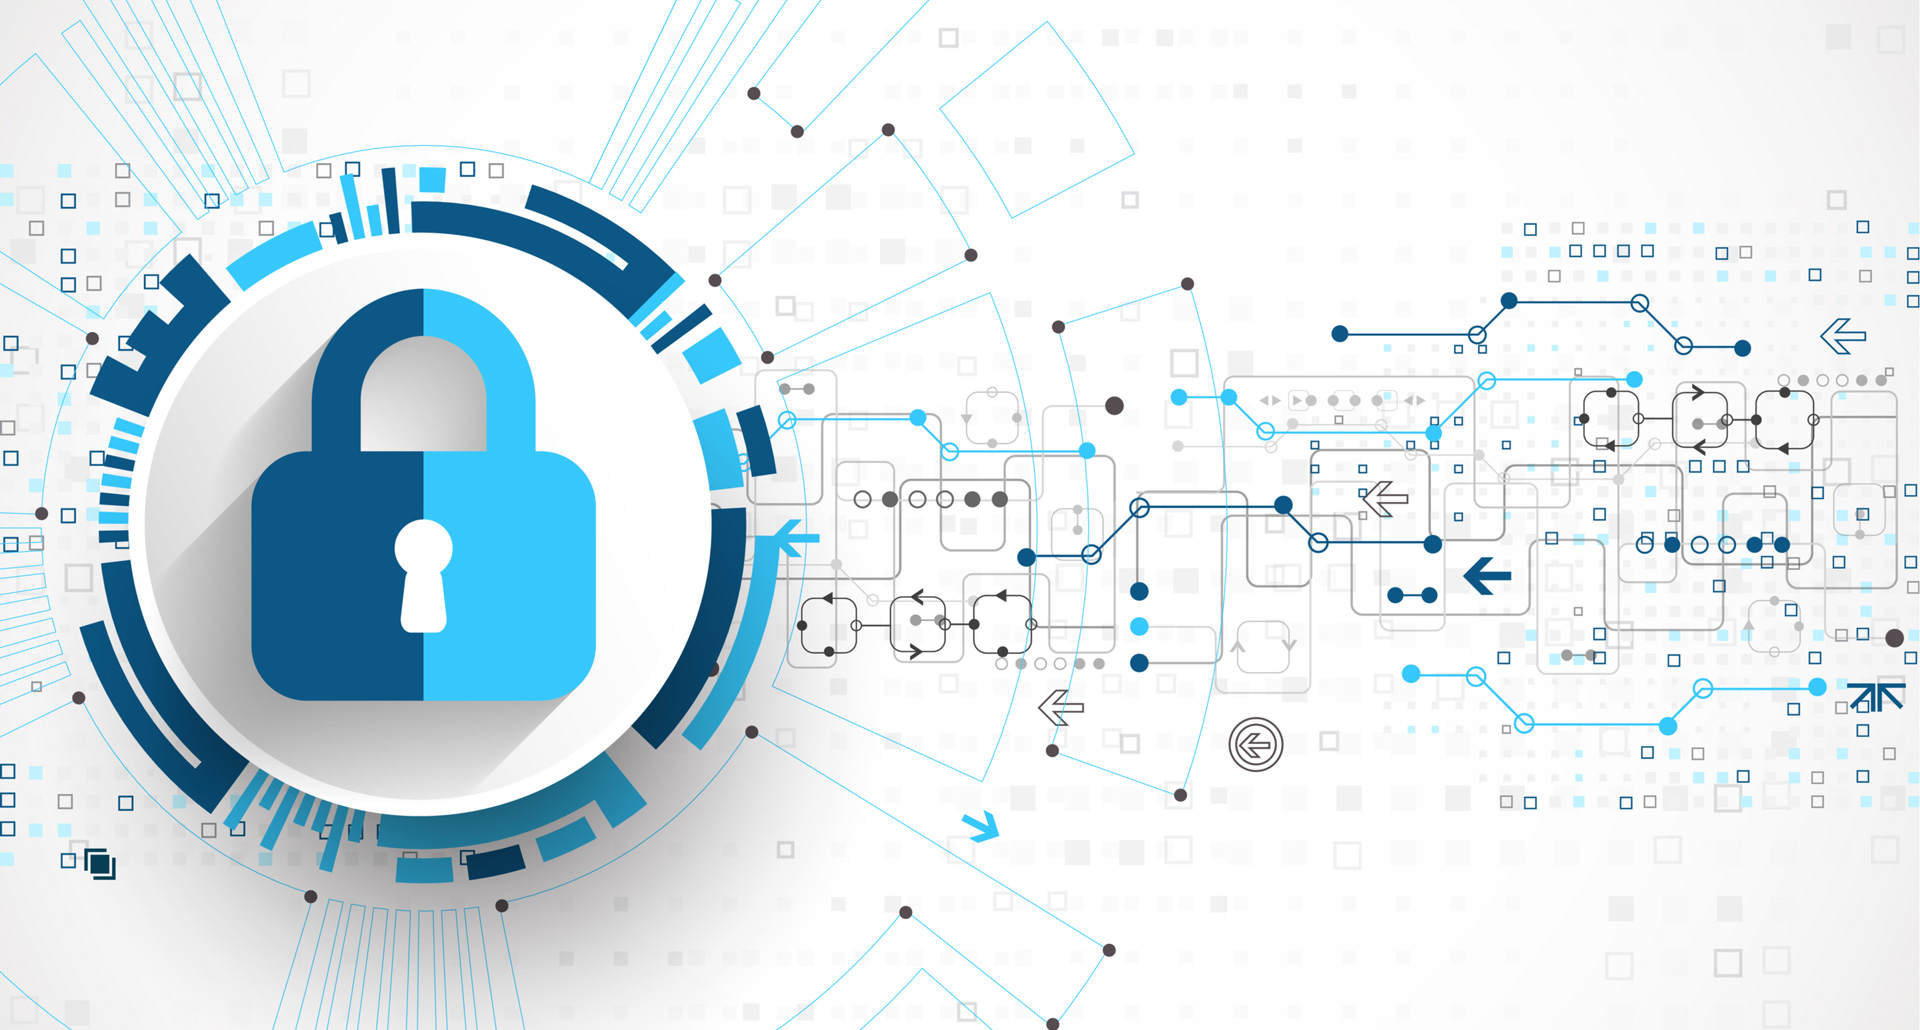
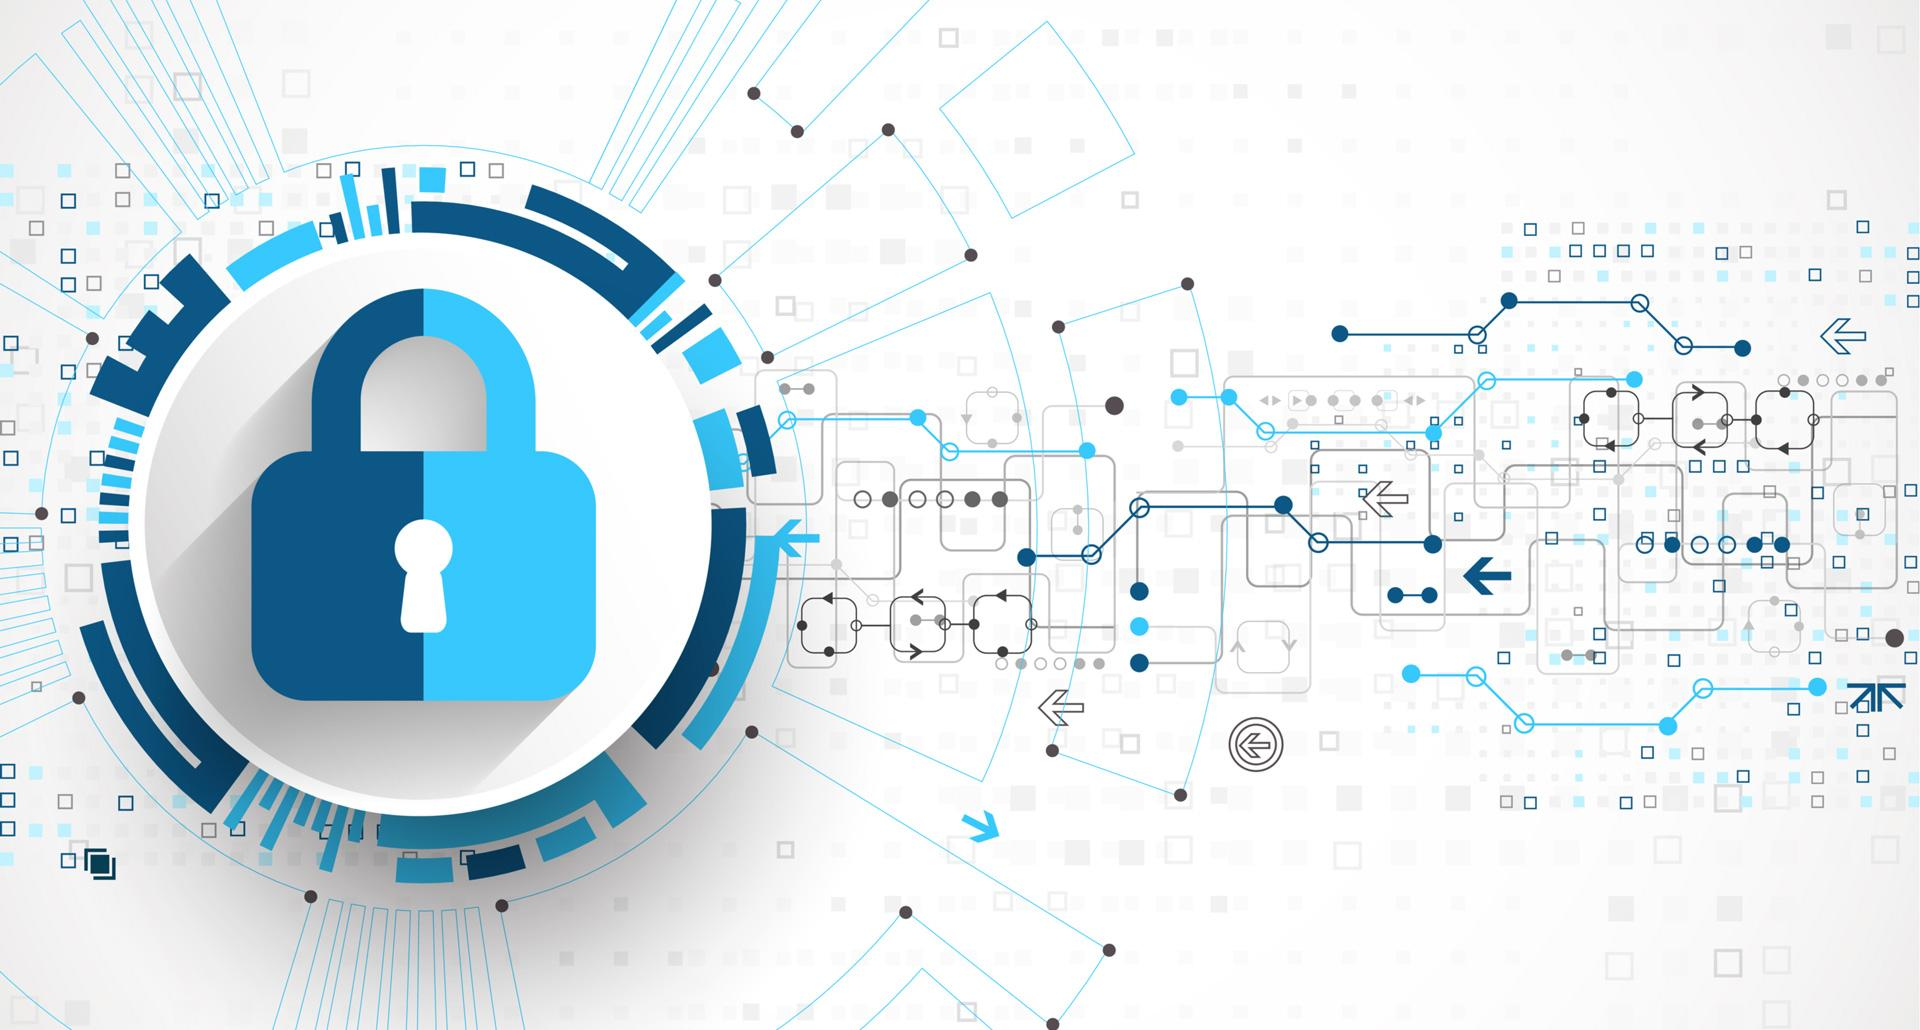
Optimized photos and new content

diff --git a/index.html b/index.html
@@ -16,11 +16,10 @@
 	<body>
 		<center>
 
-		<div class="parallaxheader" data-parallax="scroll" data-z-index="1" data-image-src="img/baird.png">
+		<div class="parallaxheader" data-parallax="scroll" data-z-index="1" data-image-src="img/baird.jpg">
 			
 			<div class="header">
-				<img src="img/headshot.png" alt="Headshot" height=20% width=20%>
-
+				<img src="img/headshot.png" alt="Headshot" height=35% width=35%>
 			</div>
 
 		</div>
@@ -31,7 +30,7 @@
 		<div class="container">
 			<div class="columnheader">Background</div>
 
-			<p>I am an aspiring Software Engineer and Security Engineer. I have always had a great interest in computer science, team building, and planning. I recently obtained a degree in Computer Science (B.S.) and a minor in Mathematics. My time at the <a href="http://www.buffalo.edu">University at Buffalo</a> and at home in New York City have provided me the proper skill set and experiences needed to create meaningful and fulfilling work.
+			<p>I am an aspiring Software Engineer and Security Engineer. I have always had a great interest in computer science, team building, and planning. I recently obtained a degree in Computer Science (B.S.) and a minor in Mathematics. My time at the <a href="http://www.buffalo.edu">University at Buffalo</a> and at home in New York City has provided me the proper skill set and experiences needed to create meaningful and fulfilling work. 
 		</div>
 		<br>
 
@@ -61,23 +60,23 @@
 				<div class="columnheader">A.I.</div>
 				<div align="left">
 					<ul>
-						<li>Constraint Satisfaction Problem</li>
+						<li>Constraint Satisfaction Problems</li>
 						<li>Planning Domain Definition</li>
 						<li>Markov Decision Processes</li>
-						<li>Markov Chains and Applications</li>
-						<li>Bayesian Networks and Inference</li>
-						<li>Bayes Filter and Applications</li>
+						<li>Markov Chains & Applications</li>
+						<li>Bayesian Networks & Inference</li>
+						<li>Bayes Filter & Applications</li>
 						<li>Reinforcement Learning</li>
 					</ul>
 				</div>
 			</div>
 
-			<div class="column4" style="background-color:#359ec6">
+			<div class="column4" style="background-color:#359ec6;">
 				<div class="columnheader">Security</div>
 				<div align="left">
 					<ul>
 						<li>SQL Injection</li>
-						<li>XSRF and XSS</li>
+						<li>XSRF & XSS</li>
 						<li>Shellshock</li>
 						<li>Packet Sniffing/Spoofing</li>
 						<li>TCP/IP Attacks</li>
@@ -90,7 +89,7 @@
 				</div>
 			</div>
 
-			<div class="column4" style="background-color:#3baeda">
+			<div class="column4" style="background-color:#3baeda;">
 				<div class="columnheader">Environments</div>
 				<div align="left">
 					<ul>
@@ -118,6 +117,70 @@
 			<p> Lorem ipsum dolor sit amet, consectetur adipiscing elit, sed do eiusmod tempor incididunt ut labore et dolore magna aliqua. Ut enim ad minim veniam, quis nostrud exercitation ullamco laboris nisi ut aliquip ex ea commodo consequat. Duis aute irure dolor in reprehenderit in voluptate velit esse cillum dolore eu fugiat nulla pariatur. Excepteur sint occaecat cupidatat non proident, sunt in culpa qui officia deserunt mollit anim id est laborum. </p>
 		</div>
 
+		<br>
+		<div class="parallax" data-parallax="scroll" data-z-index="1" data-image-src="img/davishall.jpg">
+			
+			<div class="header">
+				<img src="img/ublogo.png" alt="Headshot" width=50%>
+			</div>
+
+		</div>
+
+		<br>
+		<div class="row">
+			<div class="column2" style="background-color:#0086b3;">
+				<div class="columnheader">Computer Science & Engineering Courses</div>
+					CSE 115/116 - Introduction to Computer Science I and II<br>
+					CSE 191 - Discrete Structures<br>
+					CSE 241 - Digital Systems<br>
+					CSE 250 - Data Structures<br>
+					CSE 305 - Introduction to Programming Languages<br>
+					CSE 321 - Real-Time and Embedded Operating Systems<br>
+					CSE 331 - Algorithm Analysis<br>
+					CSE 341 - Computer Organization<br>
+					CSE 396 - Theory of Computation<br>
+					CSE 410 - Introduction to Artificial Intelligence<br>
+					CSE 410 - Computer Security<br>
+					CSE 421 - Operating Systems<br>
+					CSE 442 - Software Engineering<br>
+			</div>
+
+			<div class="column2" style="background-color:#999999;">
+				<div class="columnheader">Mathematics Courses</div>
+					MTH 115 - Survey of Algebra and Trigonometry<br>
+					MTH 141/142 - Calculus I and II<br>
+					MTH 241 - College Calculus III<br>
+					MTH 306 - Introduction to Differential Equations<br>
+					MTH 309 - Introductory Linear Algebra<br>
+					STA 301 - Introduction to Probability<br>
+					STA 302 - Introduction to Statistical Inference<br>
+
+				<div class="columnheader">Engineering Courses</div>
+					EAS 140 - Engineering Principles<br>
+					EAS 202 - Impact On Society<br>
+					EAS 230 - Engineering Computations<br>
+					CHE 107/108 - Chemistry for Engineers I and II<br>
+					PHY 107/108 - General Physics I and II<br>
+					PHY 158 - General Physics Lab II<br>
+			</div>
+
+		</div>
+
+
+		<br>
+		<div class="container">
+			<p> Lorem ipsum dolor sit amet, consectetur adipiscing elit, sed do eiusmod tempor incididunt ut labore et dolore magna aliqua. Ut enim ad minim veniam, quis nostrud exercitation ullamco laboris nisi ut aliquip ex ea commodo consequat. Duis aute irure dolor in reprehenderit in voluptate velit esse cillum dolore eu fugiat nulla pariatur. Excepteur sint occaecat cupidatat non proident, sunt in culpa qui officia deserunt mollit anim id est laborum. </p>
+		</div>
+
+		<br>
+		<div class="container">
+			<p> Lorem ipsum dolor sit amet, consectetur adipiscing elit, sed do eiusmod tempor incididunt ut labore et dolore magna aliqua. Ut enim ad minim veniam, quis nostrud exercitation ullamco laboris nisi ut aliquip ex ea commodo consequat. Duis aute irure dolor in reprehenderit in voluptate velit esse cillum dolore eu fugiat nulla pariatur. Excepteur sint occaecat cupidatat non proident, sunt in culpa qui officia deserunt mollit anim id est laborum. </p>
+		</div>
+
+		<br>
+		<div class="container">
+			<p> Lorem ipsum dolor sit amet, consectetur adipiscing elit, sed do eiusmod tempor incididunt ut labore et dolore magna aliqua. Ut enim ad minim veniam, quis nostrud exercitation ullamco laboris nisi ut aliquip ex ea commodo consequat. Duis aute irure dolor in reprehenderit in voluptate velit esse cillum dolore eu fugiat nulla pariatur. Excepteur sint occaecat cupidatat non proident, sunt in culpa qui officia deserunt mollit anim id est laborum. </p>
+		</div>
 
 		<center>
 
